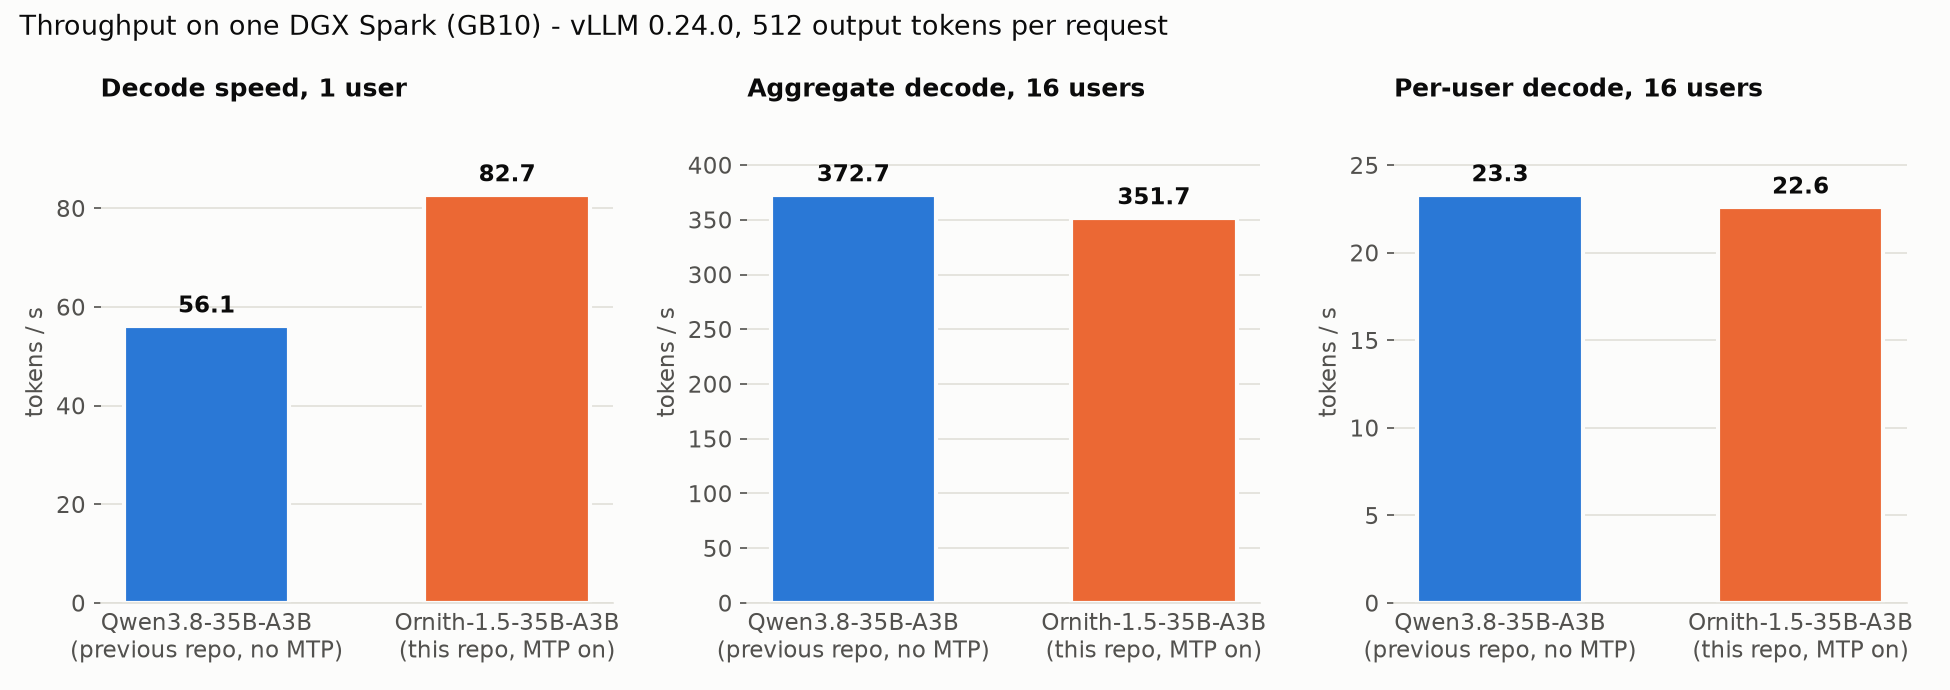
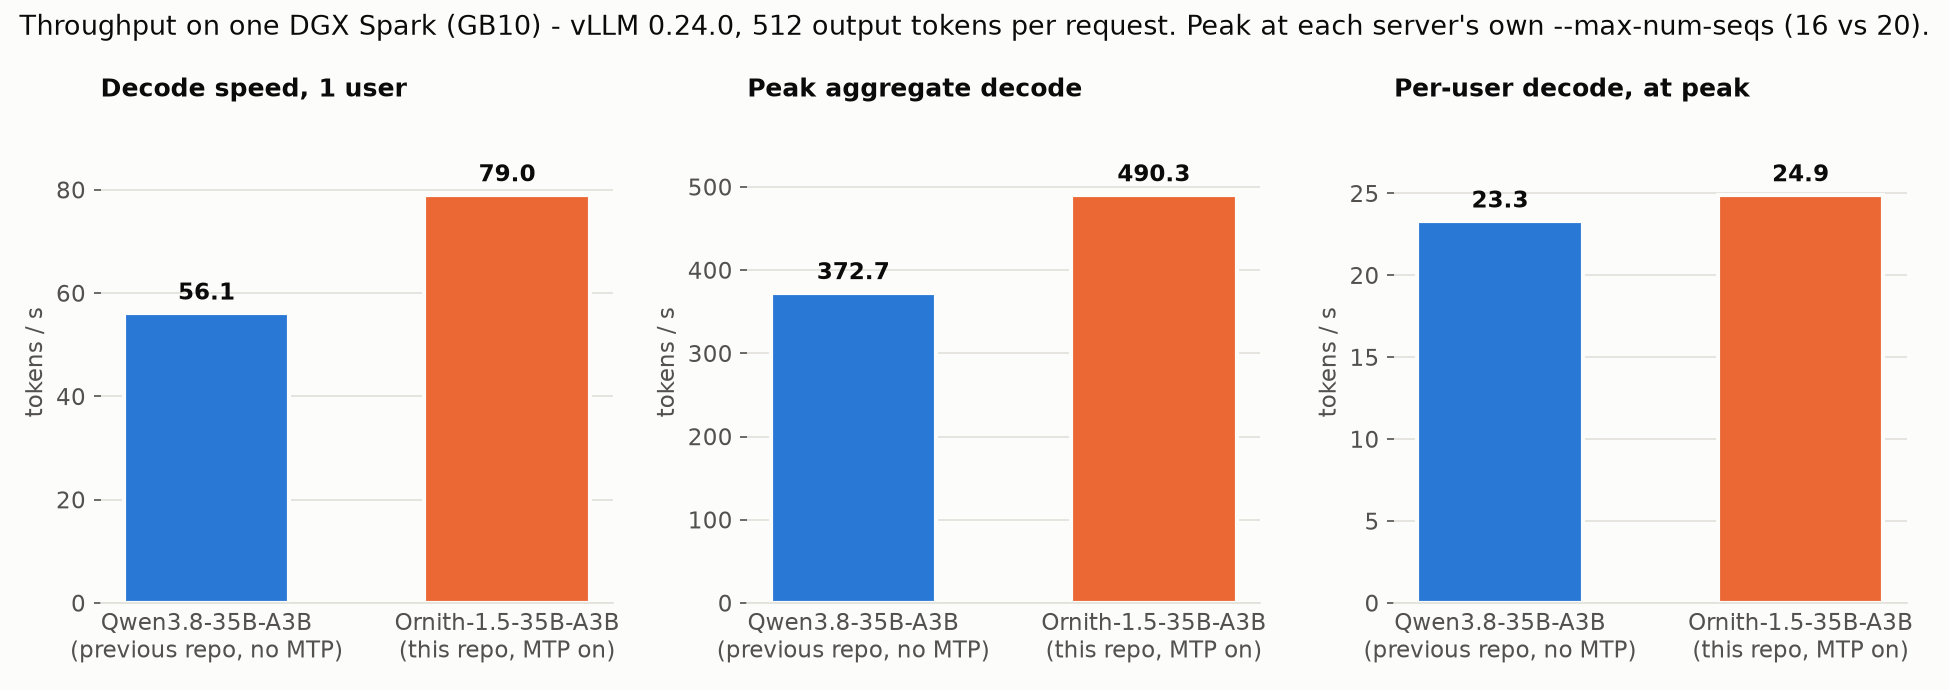
Add peak token throughput: sweep concurrency past max-num-seqs, 490 tok/s at 20 users
Extends the throughput benchmark to 20 and 24 concurrent users (beyond the
original 1/16 comparison points) to find where aggregate decode actually
peaks. It lands exactly at --max-num-seqs (20), then drops past it as extra
requests queue instead of decoding concurrently -- confirming the max-num-seqs
20 setting captures the real ceiling rather than leaving throughput on the
table. Updates the throughput chart, table, and header tagline to report this
peak figure instead of the arbitrary 16-user comparison point.

diff --git a/benchmarks/make_charts.py b/benchmarks/make_charts.py
@@ -45,14 +45,17 @@ def throughput():
     r = json.load(open(os.path.join(HERE, "throughput_result.json")))["results"]
     a = r["qwen3.8-35b-a3b (previous repo, no MTP)"]
     b = r["ornith-1.5-35b-a3b (this repo, MTP on)"]
+    a_peak = a[f"users_{a['peak_at_users']}"]
+    b_peak = b[f"users_{b['peak_at_users']}"]
     fig, axes = plt.subplots(1, 3, figsize=(13, 4.6))
     bar_panel(axes[0], "Decode speed, 1 user",
               [a["users_1"]["aggregate_tok_s"], b["users_1"]["aggregate_tok_s"]], "{:.1f}", "tokens / s")
-    bar_panel(axes[1], "Aggregate decode, 16 users",
-              [a["users_16"]["aggregate_tok_s"], b["users_16"]["aggregate_tok_s"]], "{:.1f}", "tokens / s")
-    bar_panel(axes[2], "Per-user decode, 16 users",
-              [a["users_16"]["per_user_tok_s"], b["users_16"]["per_user_tok_s"]], "{:.1f}", "tokens / s")
-    fig.suptitle("Throughput on one DGX Spark (GB10) - vLLM 0.24.0, 512 output tokens per request",
+    bar_panel(axes[1], "Peak aggregate decode",
+              [a_peak["aggregate_tok_s"], b_peak["aggregate_tok_s"]], "{:.1f}", "tokens / s")
+    bar_panel(axes[2], "Per-user decode, at peak",
+              [a_peak["per_user_tok_s"], b_peak["per_user_tok_s"]], "{:.1f}", "tokens / s")
+    fig.suptitle(f"Throughput on one DGX Spark (GB10) - vLLM 0.24.0, 512 output tokens per request. "
+                 f"Peak at each server's own --max-num-seqs ({a['peak_at_users']} vs {b['peak_at_users']}).",
                  x=0.01, ha="left", fontsize=13, color=INK)
     fig.tight_layout()
     fig.savefig(os.path.join(HERE, "throughput_comparison.png"), dpi=150)

diff --git a/README.md b/README.md
@@ -4,7 +4,7 @@
 
 # Ornith-1.5-35B-A3B (NVFP4 + FP8 + MTP) on NVIDIA DGX Spark (GB10)
 
-**Serve an official 4-bit MoE with multi-token prediction and vision: 20 concurrent users, 262K context, image input**
+**Serve an official 4-bit MoE with multi-token prediction and vision: 20 concurrent users, 262K context, 490 tok/s peak aggregate**
 
 [![Model](https://img.shields.io/badge/model-Ornith--1.5--35B--A3B--NVFP4-blue)](https://huggingface.co/ornith-ai/Ornith-1.5-35B-A3B-NVFP4)
 [![Quant](https://img.shields.io/badge/quant-NVFP4%20experts%20%2B%20FP8%20attn-8A2BE2)](#configuration-reference)
@@ -250,27 +250,35 @@ requires a bearer key on `/v1/*`).
 
 ![Throughput comparison](benchmarks/throughput_comparison.png)
 
-| Metric | Qwen3.8-35B-A3B (no MTP) | **Ornith-1.5-35B-A3B (this repo, MTP on)** |
+| Metric | Qwen3.8-35B-A3B (no MTP, max-num-seqs 16) | **Ornith-1.5-35B-A3B (this repo, MTP on, max-num-seqs 20)** |
 |---|---:|---:|
-| Decode, 1 user | 56.1 tok/s | **82.7 tok/s** (+47%) |
-| Decode, 16 users (aggregate) | 372.7 tok/s | 351.7 tok/s |
-| Decode, 16 users (per user) | 23.3 tok/s | 22.6 tok/s |
+| Decode, 1 user | 56.1 tok/s | **79.0 tok/s** (+41%) |
+| **Peak aggregate decode** | **372.7 tok/s** (at its cap of 16 users) | **490.3 tok/s** (at its cap of 20 users, +32%) |
+| Per-user decode, at peak | 23.3 tok/s | 24.9 tok/s |
 | Checkpoint size | 20.23 GiB | 21.81 GiB |
 | KV cache (fp8) | 6.05M tokens | 5.29M tokens |
 | Max concurrency at 262K context | 23.1x | 20.2x |
 | Cold start to ready | 258 s | 290 s |
 
-MTP gives a large single-stream win (+47% at 1 user) since there's a full model's worth of
-spare decode bandwidth to spend on speculation. The aggregate throughput at 16 users is very
-slightly lower than Qwen3.8's, likely because the drafter's extra forward pass competes for the
-same compute once the batch is already saturating the GPU — a smaller win when there's no slack
-to speculate into. In live production traffic, the SpecDecoding metrics show a consistent
-**~86-88% per-position draft-acceptance rate** (`vllm:spec_decode` / engine logs), meaning the
-1-token draft is right the large majority of the time.
+**Peak token output** was found by sweeping concurrency past each server's own `--max-num-seqs`
+(1 → 16 → 20 → 24 for Ornith). Aggregate throughput peaks exactly at the configured cap — 490.3
+tok/s at 20 concurrent requests — then *drops* to 405.7 tok/s at 24, because the extra requests
+queue (`Waiting > 0`) instead of decoding concurrently, adding scheduling overhead for no
+throughput gain. This confirms `--max-num-seqs 20` (raised from Qwen3.8's 16 after the KV cache
+showed headroom — see [Configuration Reference](#configuration-reference)) is set at the right
+point, not left on the table.
+
+MTP gives a large single-stream win (+41% at 1 user) since there's a full model's worth of spare
+decode bandwidth to spend on speculation, and the higher `--max-num-seqs` gives Ornith a 32%
+higher peak aggregate ceiling than Qwen3.8's, despite MTP's extra per-step drafter overhead. In
+live production traffic, the SpecDecoding metrics show a consistent **~86-88% per-position
+draft-acceptance rate** (`vllm:spec_decode` / engine logs), meaning the 1-token draft is right the
+large majority of the time.
 
 Method: every request generates exactly 512 tokens (`ignore_eos`), after one warm-up request
 ([`throughput_bench.py`](benchmarks/throughput_bench.py) ·
-[`throughput_result.json`](benchmarks/throughput_result.json)).
+[`throughput_result.json`](benchmarks/throughput_result.json), which has the full 1/16/20/24-user
+sweep).
 
 ### Reasoning & Output Length
 
